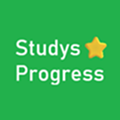
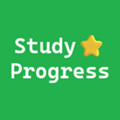
アップデート１
アイコン画像の訂正
１週間のヒストグラム追加
共有機能追加

Changed region(s): [[0.125, 0.275, 0.9, 0.5], [0.075, 0.525, 0.925, 0.725]]

diff --git a/index.html b/index.html
@@ -5,16 +5,14 @@
 <meta name="viewport" content="width=device-width, initial-scale=1.0, user-scalable=no">
 <title>進捗マップ</title>
 
-<!-- ホーム画面表示名（iOS） -->
 <meta name="apple-mobile-web-app-title" content="進捗マップ">
 
-<!-- iOS ホーム画面アイコン（v2、絶対URL） -->
 <link rel="apple-touch-icon" sizes="180x180" href="https://ellie8341.github.io/kokushi-map/icon-180-v2.png">
 <link rel="apple-touch-icon" sizes="152x152" href="https://ellie8341.github.io/kokushi-map/icon-152-v2.png">
 <link rel="apple-touch-icon" sizes="120x120" href="https://ellie8341.github.io/kokushi-map/icon-120-v2.png">
 
 <style>
-body { font-family: sans-serif; margin: 0; padding: 10px; background-color: #f5f5f5; }
+body { font-family: sans-serif; margin: 0; padding: 10px; background-color: #f5f5f5; padding-bottom:70px; }
 h1 { text-align: center; }
 
 .tabs, .genre-tabs { display: flex; overflow-x: auto; gap: 8px; margin-bottom: 10px; }
@@ -24,179 +22,190 @@ h1 { text-align: center; }
 #grid-container { width: 100%; }
 .grid { display: grid; grid-template-columns: repeat(5, 1fr); gap: 6px; }
 
-.cell { aspect-ratio: 1/1; min-width: 50px; font-size: 16px; display: flex; align-items: center; justify-content: center; position: relative; border: 1px solid #ccc; border-radius: 4px; -webkit-user-select: none; user-select: none; }
+.cell { aspect-ratio: 1/1; min-width: 50px; font-size: 16px; display: flex; align-items: center; justify-content: center; position: relative; border: 1px solid #ccc; border-radius: 4px; }
 .star-btn { position: absolute; bottom: 2px; right: 2px; font-size: 16px; cursor: pointer; }
 
 .progress-container { width: 100%; height: 20px; background-color: #ddd; border-radius: 10px; overflow: hidden; margin-bottom: 5px; }
 .progress-bar { height: 100%; width: 0%; background-color: #4CAF50; }
 .progress-text { text-align: right; font-size: 14px; margin-bottom: 10px; }
 
-html, body { touch-action: manipulation; -webkit-user-select: none; -ms-touch-action: manipulation; }
+/* ===== 今週ページ ===== */
+#page-week{
+  display:none;
+  background:white;
+  padding:20px;
+  border-radius:16px;
+  margin-top:10px;
+  box-shadow:0 4px 10px rgba(0,0,0,0.1);
+}
+
+#histogram{
+  display:flex;
+  align-items:flex-end;
+  justify-content:space-around;
+  height:200px;
+  margin-top:20px;
+}
+
+/* ===== 下タブ ===== */
+#bottom-tabs{
+  position:fixed;
+  bottom:0;
+  left:0;
+  width:100%;
+  display:flex;
+  background:white;
+  border-top:1px solid #ccc;
+}
+
+.bottom-tab{
+  flex:1;
+  text-align:center;
+  padding:12px 0;
+  cursor:pointer;
+  font-weight:bold;
+}
+
+.bottom-tab.active{
+  background:#4CAF50;
+  color:white;
+}
 </style>
 </head>
 <body>
 
 <h1>進捗マップ</h1>
 
-<!-- 年度タブ -->
 <div class="tabs">
   <div class="tab active">111回</div>
   <div class="tab">110回</div>
   <div class="tab">109回</div>
-  <div class="tab">108回</div>
-  <div class="tab">107回</div>
-  <div class="tab">106回</div>
-  <div class="tab">105回</div>
-  <div class="tab">104回</div>
 </div>
 
-<!-- 年度進捗バー -->
-<div class="progress-container" id="yearProgressContainer">
+<div class="progress-container">
   <div class="progress-bar" id="yearProgressBar"></div>
 </div>
 <p class="progress-text" id="yearProgressText"></p>
 
-<!-- ジャンルタブ -->
 <div class="genre-tabs">
   <div class="genre-tab active" data-genre="hisshu">必須問題</div>
   <div class="genre-tab" data-genre="riron">理論問題</div>
   <div class="genre-tab" data-genre="jissen">実践問題</div>
 </div>
 
-<!-- ジャンル進捗バー -->
-<div class="progress-container" id="genreProgressContainer">
+<div class="progress-container">
   <div class="progress-bar" id="genreProgressBar"></div>
 </div>
 <p class="progress-text" id="genreProgressText"></p>
 
-<!-- グリッド表示 -->
 <div id="grid-container">
   <div class="grid" id="hisshu"></div>
   <div class="grid" id="riron" style="display:none"></div>
   <div class="grid" id="jissen" style="display:none"></div>
 </div>
 
+<!-- ===== 今週の成果ページ ===== -->
+<div id="page-week">
+  <h2 style="text-align:center;">今週の成果</h2>
+  <div id="histogram"></div>
+  <button id="shareBtn" style="display:block;margin:20px auto;padding:10px 20px;font-size:16px;">
+  画像を保存してシェア
+  </button>
+</div>
+
+<!-- ===== 下タブ ===== -->
+<div id="bottom-tabs">
+  <div class="bottom-tab active" data-page="progress">過去問進捗</div>
+  <div class="bottom-tab" data-page="week">今週の成果</div>
+</div>
+
+<script src="https://cdnjs.cloudflare.com/ajax/libs/html2canvas/1.4.1/html2canvas.min.js"></script>
+
 <script>
-// ダブルタップ拡大防止
-let lastTouch = 0;
-document.addEventListener('touchend', function(e){
-  const now = Date.now();
-  if(now - lastTouch <= 300) e.preventDefault();
-  lastTouch = now;
-}, { passive: false });
-
-const tabs = document.querySelectorAll(".tab");
-const genreTabs = document.querySelectorAll(".genre-tab");
-const grids = document.querySelectorAll(".grid");
-
-let currentYear = "111";
 const genreRanges = { hisshu:[1,90], riron:[91,195], jissen:[196,345] };
+let currentYear = "111";
 
-// 年度タブ切替
-tabs.forEach(tab => {
-  tab.addEventListener("click", function() {
-    tabs.forEach(t => t.classList.remove("active"));
-    this.classList.add("active");
-    currentYear = this.textContent.replace("回","");
-    loadYear(currentYear);
-    updateYearProgress(currentYear);
-    const activeGenre = document.querySelector(".genre-tab.active").dataset.genre;
-    updateGenreProgress(currentYear, activeGenre);
+// ===== 今週管理 =====
+function getTodayIndex(){
+  const day=new Date().getDay();
+  return (day===0)?6:day-1;
+}
+function getWeekKey(){
+  const now=new Date();
+  const year=now.getFullYear();
+  const week=Math.ceil((now - new Date(year,0,1))/86400000/7);
+  return "week_"+year+"_"+week;
+}
+function incrementTodayCount(){
+  const key=getWeekKey();
+  let data=JSON.parse(localStorage.getItem(key))||[0,0,0,0,0,0,0];
+  data[getTodayIndex()]++;
+  localStorage.setItem(key,JSON.stringify(data));
+}
+
+// ===== ヒストグラム描画 =====
+function renderHistogram(){
+  const container=document.getElementById("histogram");
+  container.innerHTML="";
+  const key=getWeekKey();
+  const data=JSON.parse(localStorage.getItem(key))||[0,0,0,0,0,0,0];
+
+  const colors=["red","orange","yellow","green","deepskyblue","blue","purple"];
+  const labels=["月","火","水","木","金","土","日"];
+
+  data.forEach((value,index)=>{
+    const wrapper=document.createElement("div");
+    wrapper.style.display="flex";
+    wrapper.style.flexDirection="column";
+    wrapper.style.alignItems="center";
+
+    const bar=document.createElement("div");
+    bar.style.height=(value*15)+"px";
+    bar.style.width="30px";
+    bar.style.backgroundColor=colors[index];
+
+    const label=document.createElement("span");
+    label.textContent=labels[index];
+
+    wrapper.appendChild(bar);
+    wrapper.appendChild(label);
+    container.appendChild(wrapper);
   });
-});
+}
 
-// ジャンルタブ切替
-genreTabs.forEach(tab => {
-  tab.addEventListener("click", () => {
-    genreTabs.forEach(t => t.classList.remove("active"));
+// ===== 下タブ切替 =====
+document.querySelectorAll(".bottom-tab").forEach(tab=>{
+  tab.addEventListener("click",()=>{
+    document.querySelectorAll(".bottom-tab").forEach(t=>t.classList.remove("active"));
     tab.classList.add("active");
-    const genre = tab.dataset.genre;
-    grids.forEach(g => g.style.display = (g.id===genre)?"grid":"none");
-    updateGenreProgress(currentYear, genre);
+
+    const page=tab.dataset.page;
+    document.getElementById("grid-container").style.display=(page==="progress")?"block":"none";
+    document.querySelector(".tabs").style.display=(page==="progress")?"flex":"none";
+    document.querySelector(".genre-tabs").style.display=(page==="progress")?"flex":"none";
+    document.getElementById("page-week").style.display=(page==="week")?"block":"none";
+
+    if(page==="week") renderHistogram();
   });
 });
 
-// マス生成
-function loadYear(year){
-  const genres = ["hisshu","riron","jissen"];
-  genres.forEach(genre=>{
-    const grid = document.getElementById(genre);
-    grid.innerHTML="";
-    const storageKey = "kokushi_"+year+"_"+genre;
-    let savedData = JSON.parse(localStorage.getItem(storageKey)) || [];
+// ===== 画像共有 =====
+document.getElementById("shareBtn").addEventListener("click",async()=>{
+  const element=document.getElementById("page-week");
+  const canvas=await html2canvas(element,{backgroundColor:"#ffffff",scale:2});
+  const dataUrl=canvas.toDataURL("image/png");
 
-    const [start,end] = genreRanges[genre];
-    for(let i=start;i<=end;i++){
-      const cell = document.createElement("div");
-      cell.classList.add("cell");
-      cell.textContent = i;
-
-      let count = savedData[i]?.count || 0;
-      let starred = savedData[i]?.starred || false;
-
-      const starBtn = document.createElement("div");
-      starBtn.classList.add("star-btn");
-      starBtn.textContent = starred ? "⭐":"☆";
-      starBtn.addEventListener("click", e=>{
-        e.stopPropagation();
-        starred = !starred;
-        starBtn.textContent = starred ? "⭐":"☆";
-        savedData[i]={count,starred};
-        localStorage.setItem(storageKey,JSON.stringify(savedData));
-        updateYearProgress(currentYear);
-        updateGenreProgress(currentYear,genre);
-      });
-      cell.appendChild(starBtn);
-
-      const updateColor = ()=>{
-        if(count===1) cell.style.backgroundColor="#c8e6c9";
-        else if(count===2) cell.style.backgroundColor="#81c784";
-        else if(count>=3) cell.style.backgroundColor="#388e3c";
-        else cell.style.backgroundColor="white";
-      };
-      updateColor();
-
-      cell.addEventListener("click", ()=>{
-        count++;
-        if(count>3) count=0;
-        savedData[i]={count,starred};
-        localStorage.setItem(storageKey,JSON.stringify(savedData));
-        updateColor();
-        updateYearProgress(currentYear);
-        updateGenreProgress(currentYear,genre);
-      });
-
-      grid.appendChild(cell);
-    }
-  });
-}
-
-// 進捗更新
-function updateYearProgress(year){
-  let totalSolved=0;
-  const genres=["hisshu","riron","jissen"];
-  genres.forEach(g=>{
-    const data=JSON.parse(localStorage.getItem("kokushi_"+year+"_"+g))||[];
-    totalSolved+=data.filter(d=>d && d.count>0).length;
-  });
-  const percent=Math.floor(totalSolved/345*100);
-  document.getElementById("yearProgressBar").style.width=percent+"%";
-  document.getElementById("yearProgressText").textContent=percent+"% 完了 ("+totalSolved+"/345)";
-}
-
-function updateGenreProgress(year,genre){
-  const data=JSON.parse(localStorage.getItem("kokushi_"+year+"_"+genre))||[];
-  const solvedCount=data.filter(d=>d && d.count>0).length;
-  const [start,end]=genreRanges[genre];
-  const total=end-start+1;
-  const percent=Math.floor(solvedCount/total*100);
-  document.getElementById("genreProgressBar").style.width=percent+"%";
-  document.getElementById("genreProgressText").textContent=percent+"% 完了 ("+solvedCount+"/"+total+")";
-}
-
-loadYear(currentYear);
-updateYearProgress(currentYear);
-updateGenreProgress(currentYear,"hisshu");
+  if(navigator.share){
+    const blob=await (await fetch(dataUrl)).blob();
+    const file=new File([blob],"今週の成果.png",{type:"image/png"});
+    navigator.share({ files:[file], title:"今週の成果", text:"今週もがんばりました🌈" });
+  }else{
+    const link=document.createElement("a");
+    link.download="今週の成果.png";
+    link.href=dataUrl;
+    link.click();
+  }
+});
 </script>
 
 </body>
